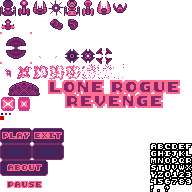
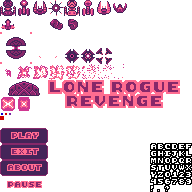
Bind actions to buttons

Changed region(s): [[0.0, 0.6562, 0.3438, 0.8438]]

diff --git a/assets.py b/assets.py
@@ -27,8 +27,8 @@ def load_assets():
         "mm_corner": scale_up(_sheet.subsurface(Rect(16, 112, 16, 16))),
         "mm_side": scale_up(_sheet.subsurface(Rect(32, 112, 16, 16))),
         "ui_pause": scale_up(_sheet.subsurface(Rect(0, 176, 48, 16))),
-        "ui_play": scale_up(_sheet.subsurface(Rect(0, 128, 32, 16))),
-        "ui_exit": scale_up(_sheet.subsurface(Rect(32, 128, 32, 16))),
+        "ui_play": scale_up(_sheet.subsurface(Rect(0, 128, 48, 16))),
+        "ui_exit": scale_up(_sheet.subsurface(Rect(0, 144, 48, 16))),
         "ui_about": scale_up(_sheet.subsurface(Rect(0, 160, 48, 16))),
         "title": scale_up(_sheet.subsurface(Rect(48, 80, 132, 28))),
     }

diff --git a/main_menu.py b/main_menu.py
@@ -6,6 +6,8 @@ from glob import globs
 from ui import UiMaster, Manager, Button, Ui
 from assets import get_sprite
 
+import webbrowser
+
 
 def setup_main_menu(group):
     managers = [MainMenuManager(group)]
@@ -107,12 +109,14 @@ class Cursor(Ui):
 
 
 def play_cb():
-    pass
+    globs.actions.quit = True
+    globs.next_level = 1
 
 
 def about_cb():
-    pass
+    webbrowser.open("https://lattay.itch.io/lone-rogue-revenge")
 
 
 def exit_cb():
-    pass
+    globs.actions.quit = True
+    globs.next_level = None
